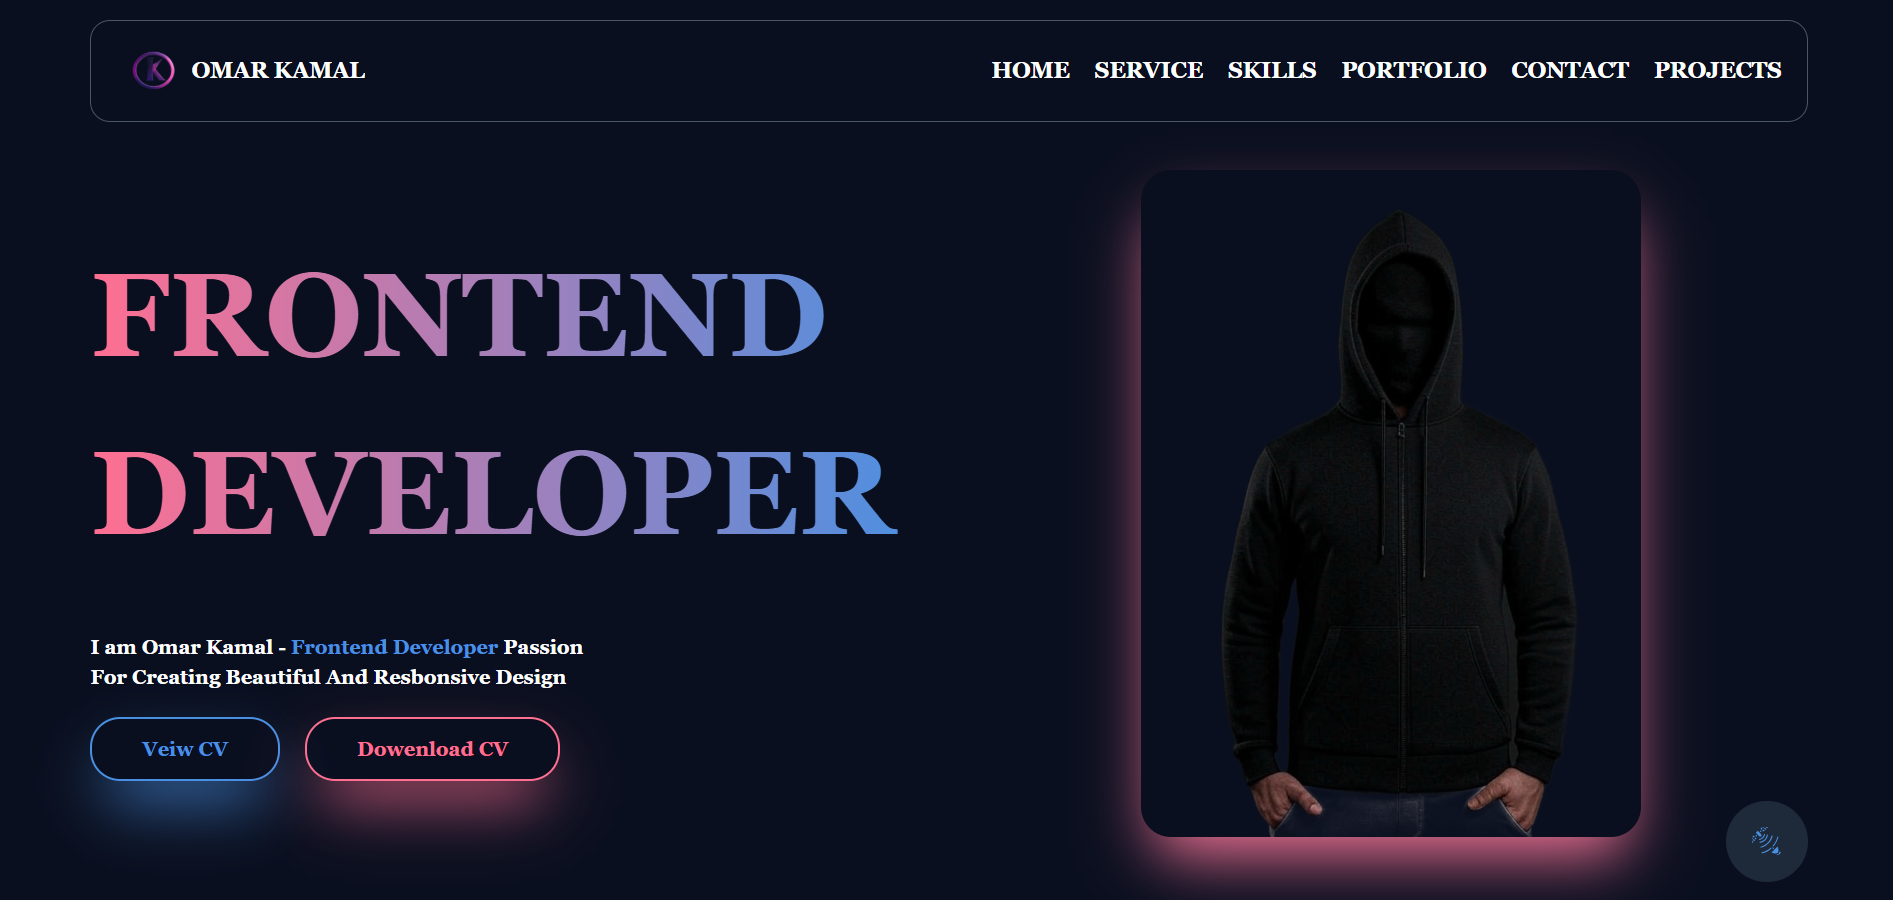
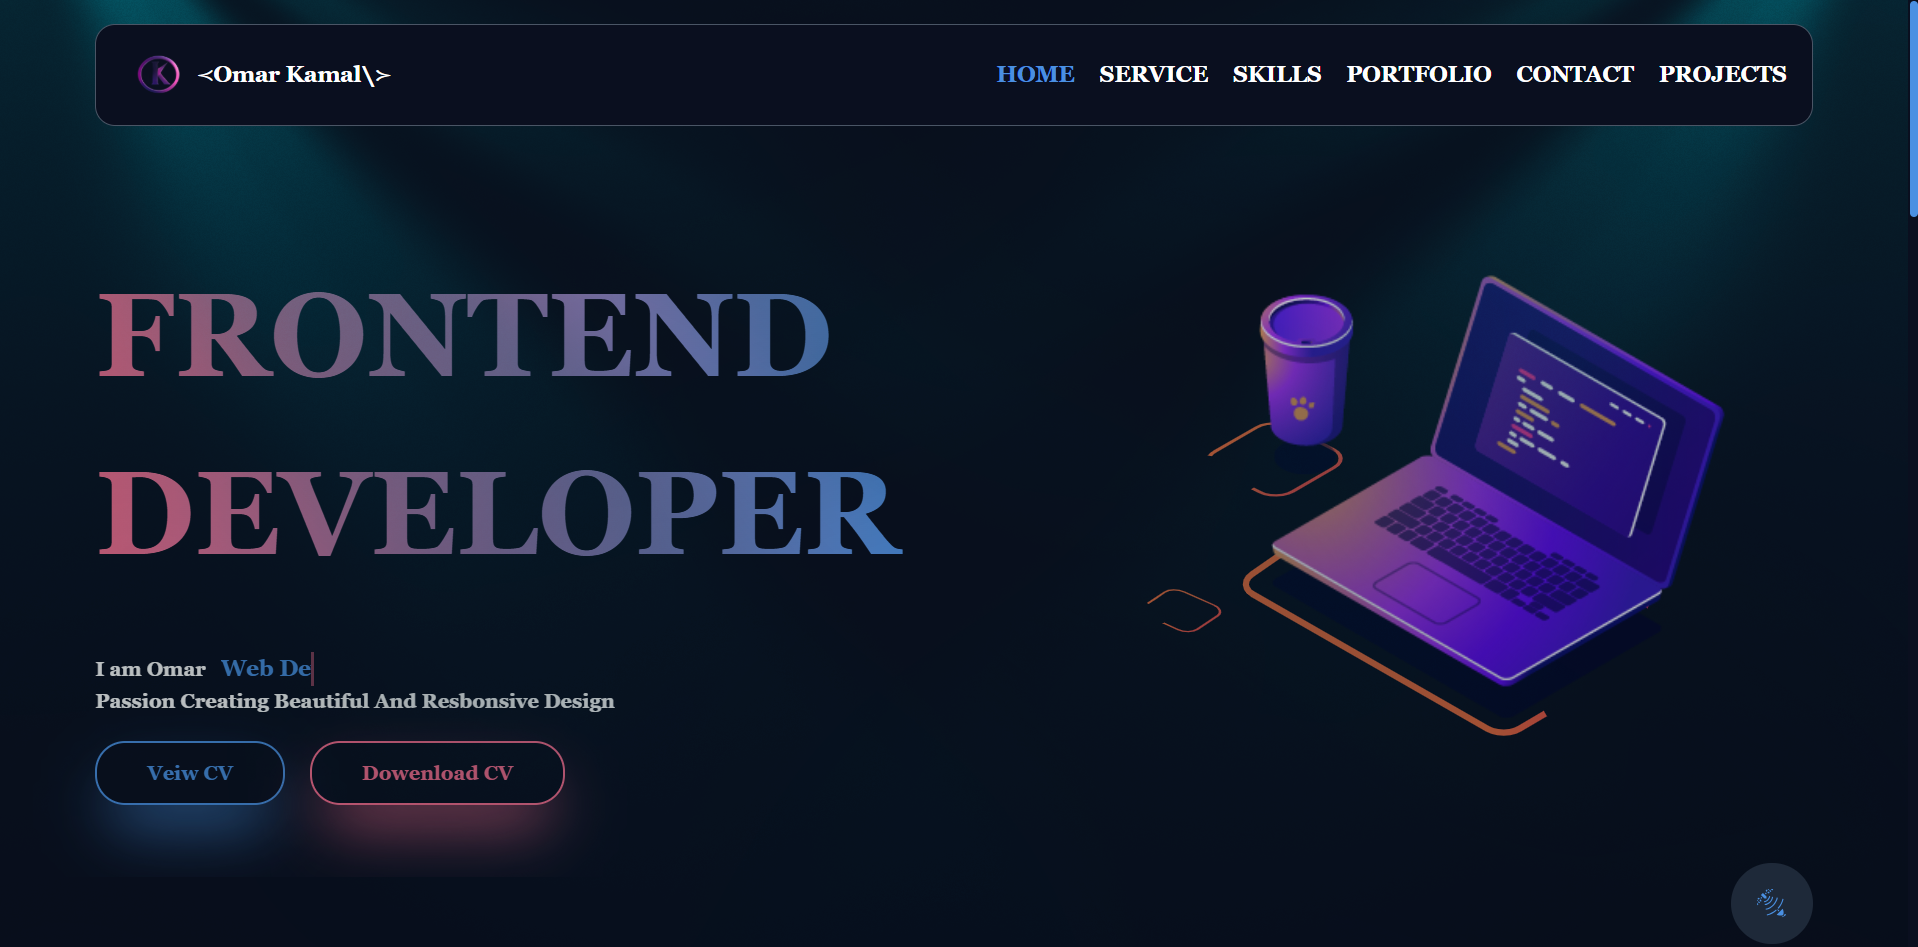
Update Commit

diff --git a/src/App.jsx b/src/App.jsx
@@ -31,14 +31,14 @@ const Layout = () => {
   }, [location.pathname]);
   return (
     <>
-      {["top-right", "top-left"].map((origin, idx) => (
+      { window.innerWidth > 700 && ["top-right", "top-left"].map((origin, idx) => (
         <LightRays
           key={idx}
           raysOrigin={origin}
           raysColor="#00ffff"
           raysSpeed={1.5}
-          lightSpread={1.5}
-          rayLength={3.0}
+          lightSpread={1.2}
+          rayLength={1.5}
           followMouse
           mouseInfluence={0.1}
           noiseAmount={0.1}
@@ -46,6 +46,21 @@ const Layout = () => {
           className="fixed h-screen w-screen -z-10 pointer-events-none"
         />
       ))}
+
+      { window.innerWidth < 700 &&
+        <LightRays
+          raysOrigin="top-center"
+          raysColor="#00ffff"
+          raysSpeed={1.5}
+          lightSpread={1.2}
+          rayLength={1.5}
+          followMouse
+          mouseInfluence={0.1}
+          noiseAmount={0.1}
+          distortion={0.05}
+          className="fixed h-screen w-screen -z-10 pointer-events-none"
+        />
+      }
 
       <Navbar />
       <Outlet />
